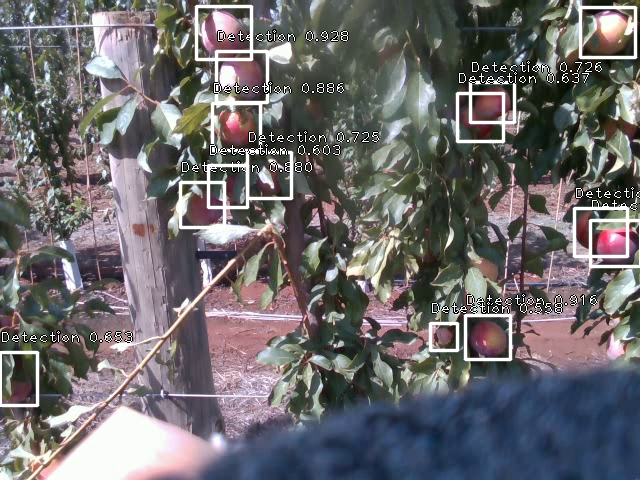
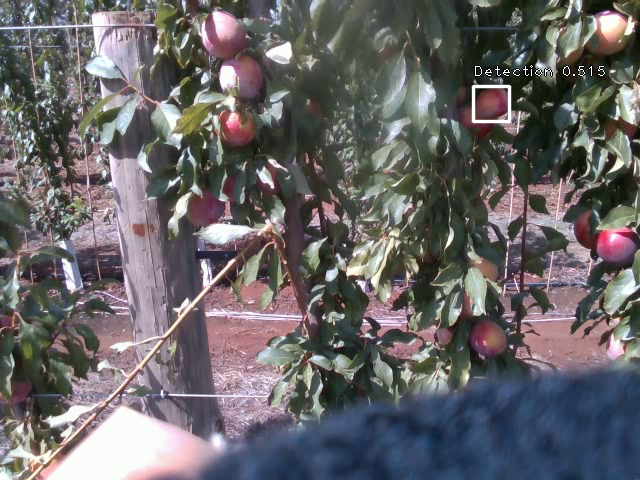
added asset

diff --git a/testDetector.py b/testDetector.py
@@ -24,9 +24,9 @@ from PIL import Image
 # set tf backend to allow memory to grow, instead of claiming everything
 import tensorflow as tf
 
-model_path = '/home/jasper/Datasets/OriginalData/resnet50_coco_best_v2.1.0.h5'
-image_path = '/home/jasper/git/Retinanet-Tutorial/plumsTest.png'
-image_output_path = '/home/jasper/git/Retinanet-Tutorial/plumsTest_detected.png'
+model_path = '~/RetinanetTutorial/RetinanetModels/PlumsInference.h5'
+image_path = '~/RetinanetTutorial/Retinanet-Tutorial/plumsTest.png'
+image_output_path = '~/RetinanetTutorial/Retinanet-Tutorial/plumsTest_detected.png'
 confidence_cutoff = 0.5 #Detections below this confidence will be ignored
 
 def get_session():
